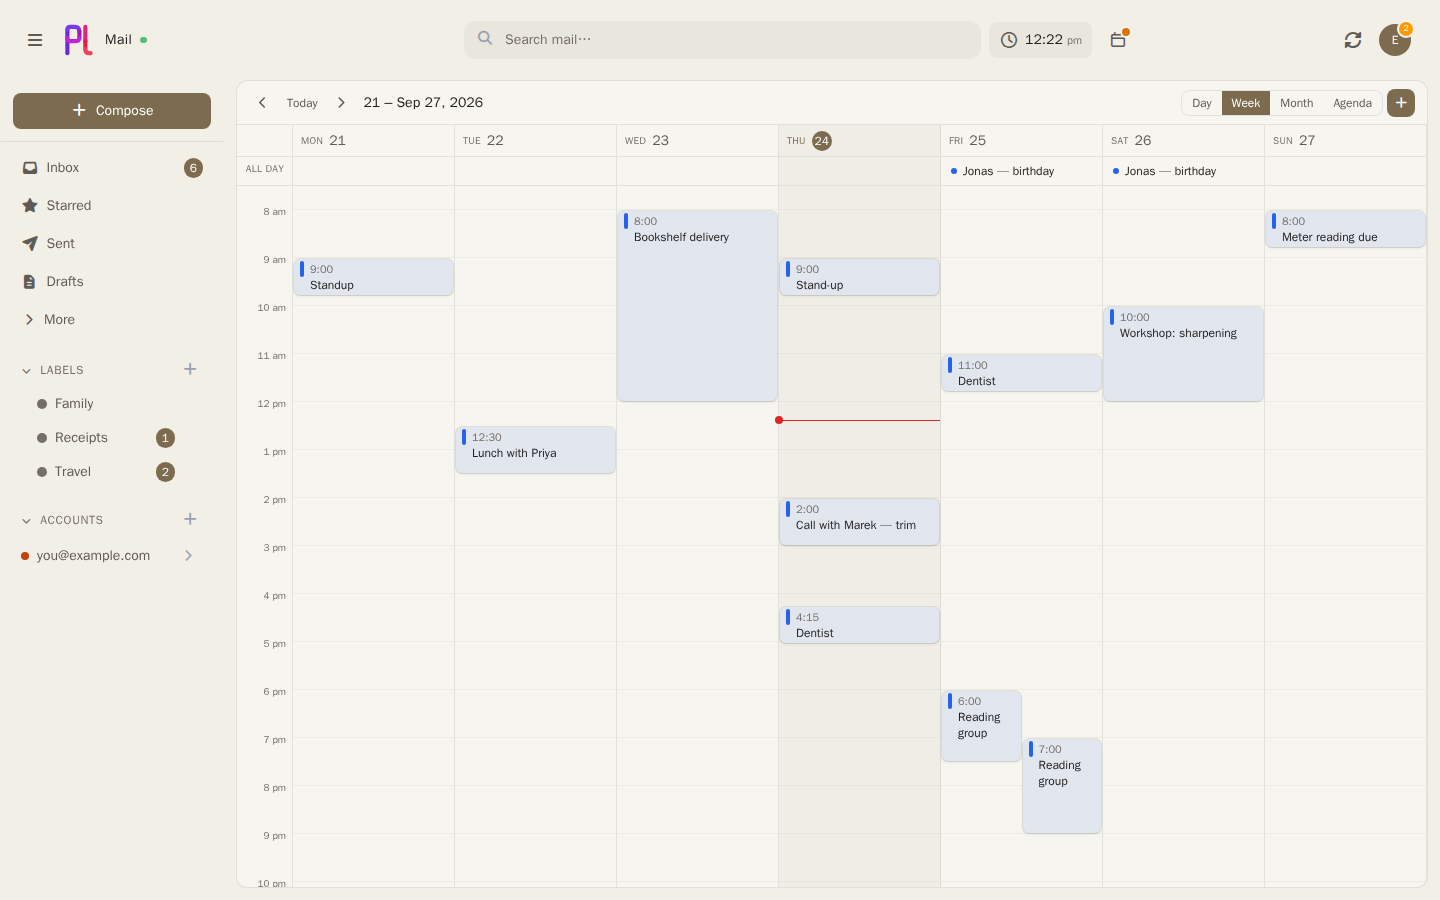
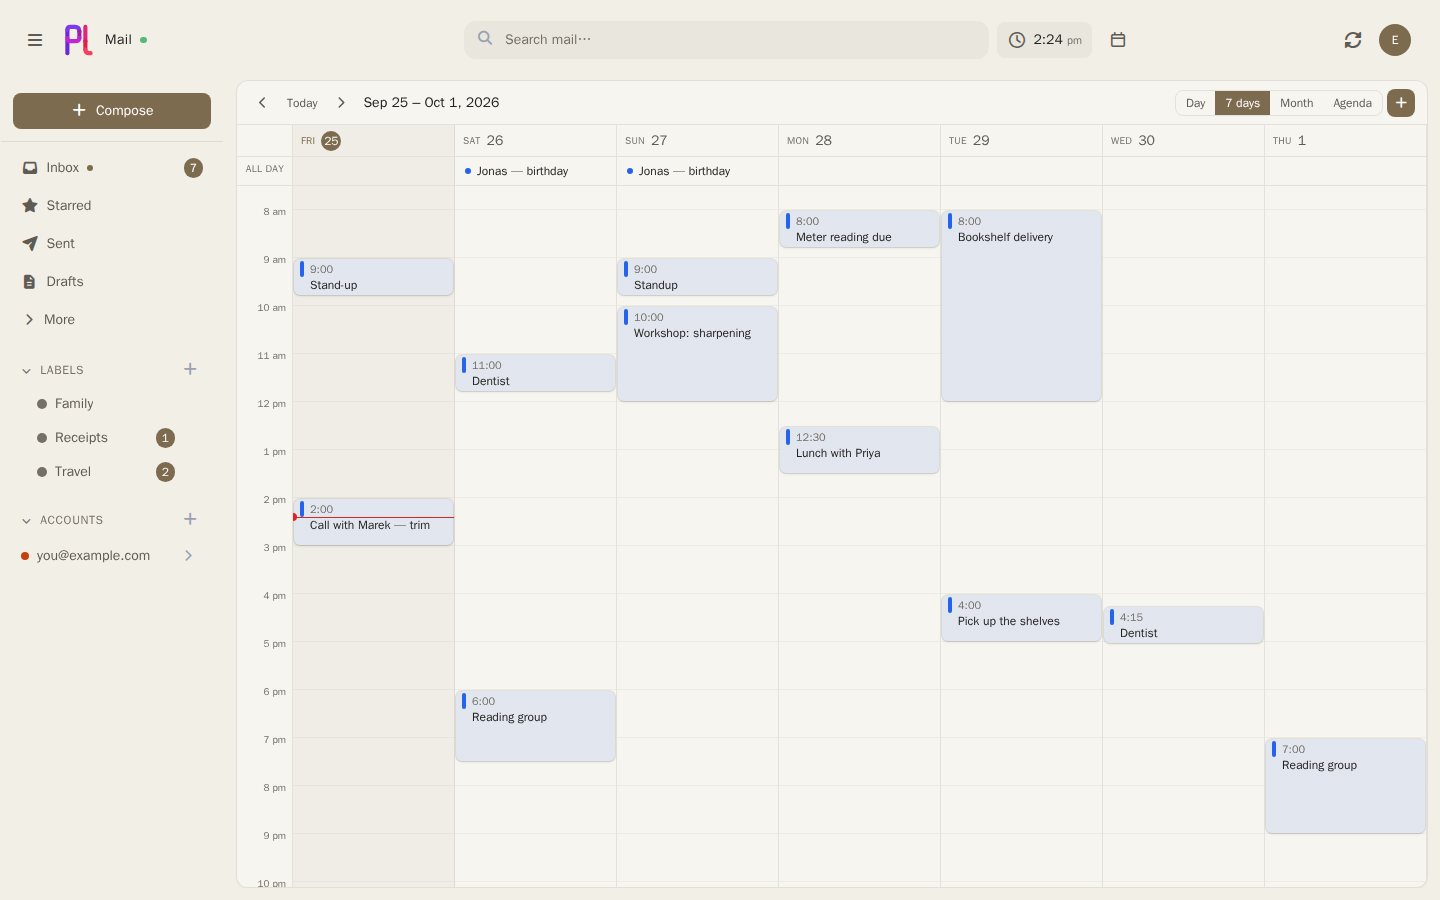
docs: the README's calendar shows 7 days, from today
Retaken after 66b9701b: the picture still showed a Monday-to-Sunday week
labelled Week. The spec's own events move two days on, because
app:test:seed-demo already fills the first days from today - on top of
it they took the same slots, a "Standup" beside its "Stand-up" at nine,
and left the last two columns empty.

diff --git a/tests/e2e/screenshots.spec.ts b/tests/e2e/screenshots.spec.ts
@@ -311,12 +311,16 @@ test.describe("README screenshots", () => {
             return `${day.toISOString().slice(0, 10)}T${time}`;
         };
 
+        // From the third day on: app:test:seed-demo already fills the first
+        // days from today, and on top of it these took the same slots — a
+        // "Standup" beside its "Stand-up" at nine — and left the last two
+        // columns empty.
         const events: Array<[string, string, string]> = [
-            ["Standup", at(0, "09:00"), at(0, "09:15")],
-            ["Lunch with Priya", at(1, "12:30"), at(1, "13:30")],
-            ["Bookshelf delivery", at(2, "08:00"), at(2, "12:00")],
-            ["Dentist", at(3, "16:15"), at(3, "17:00")],
-            ["Reading group", at(4, "19:00"), at(4, "21:00")],
+            ["Standup", at(2, "09:00"), at(2, "09:15")],
+            ["Lunch with Priya", at(3, "12:30"), at(3, "13:30")],
+            ["Bookshelf delivery", at(4, "08:00"), at(4, "12:00")],
+            ["Dentist", at(5, "16:15"), at(5, "17:00")],
+            ["Reading group", at(6, "19:00"), at(6, "21:00")],
         ];
 
         await page.goto("/calendar/week");
